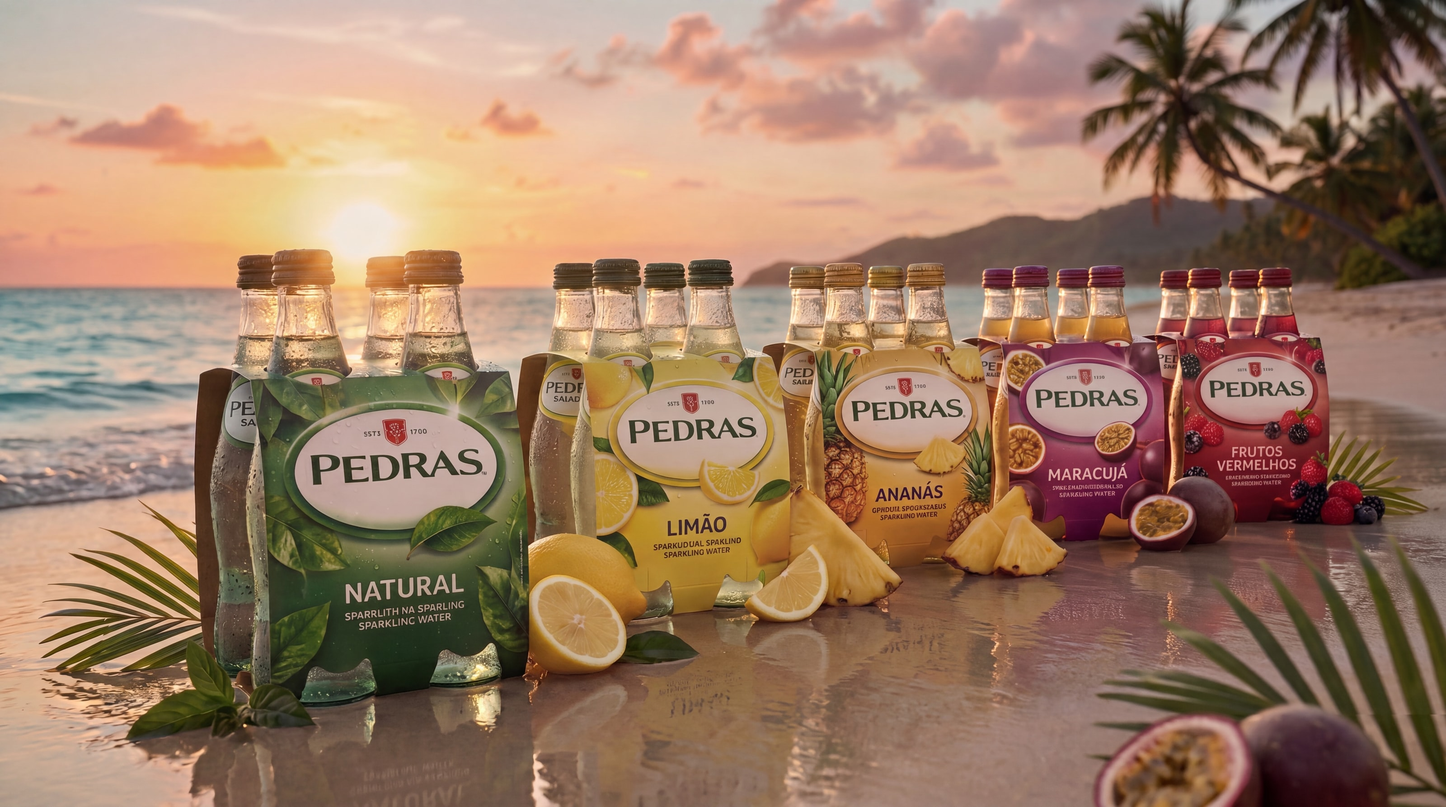
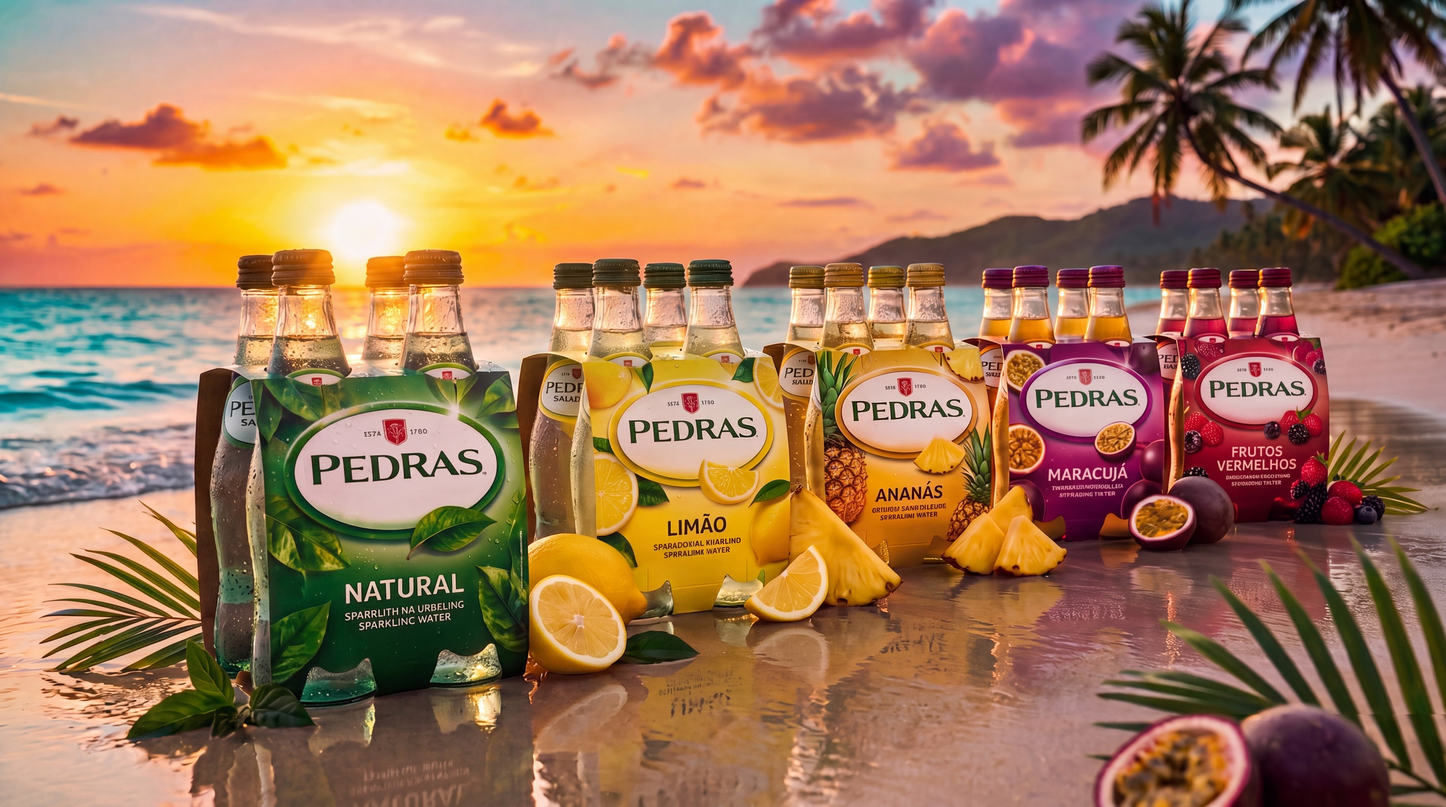
Boost hero saturation and move copy to the top-right
- Regenerate the hero photo with richer, more vivid color grading
  (sunset tones, ocean, pack colors) for more visual presence.
- Move the hero copy from top-left to top-right, with a right-side
  scrim added so it stays legible; desktop/tablet only — mobile keeps
  its stacked banner-then-copy layout, which has no "corner" concept.

Claude-Session: https://claude.ai/code/session_01Bsqo84fGNhGJNqieYoVBHi

diff --git a/src/components/hero.tsx b/src/components/hero.tsx
@@ -20,10 +20,11 @@ export function Hero() {
           className="object-cover"
         />
         <div className="absolute inset-0 hidden bg-gradient-to-b from-black/75 via-black/25 to-transparent lg:block" />
+        <div className="absolute inset-0 hidden bg-gradient-to-l from-black/55 via-transparent to-transparent lg:block" />
         <div className="absolute inset-x-0 bottom-0 hidden h-1/3 bg-gradient-to-t from-black/60 to-transparent lg:block" />
       </div>
 
-      <div className="relative z-10 mx-auto flex w-full max-w-6xl flex-col items-start gap-4 px-6 py-10 sm:px-10 lg:pt-28 lg:pb-0 lg:absolute lg:inset-0 lg:justify-start lg:py-0">
+      <div className="relative z-10 mx-auto flex w-full max-w-6xl flex-col items-start gap-4 px-6 py-10 sm:px-10 lg:absolute lg:inset-0 lg:items-end lg:justify-start lg:py-0 lg:pt-28 lg:pb-0 lg:text-right">
         <span className="text-xs font-semibold tracking-[0.3em] text-white/60 uppercase sm:text-sm lg:text-white/80">
           Água das Pedras · Desde 1871
         </span>
@@ -34,7 +35,7 @@ export function Hero() {
           Borbulhar
         </h1>
 
-        <p className="max-w-md text-base text-white/85 sm:text-lg">
+        <p className="max-w-md text-base text-white/85 sm:text-lg lg:ml-auto">
           Cinco sabores, uma explosão de frescura. Água mineral natural
           gasocarbónica com ingredientes naturais — Natural, Limão, Ananás,
           Maracujá e Frutos Vermelhos.
